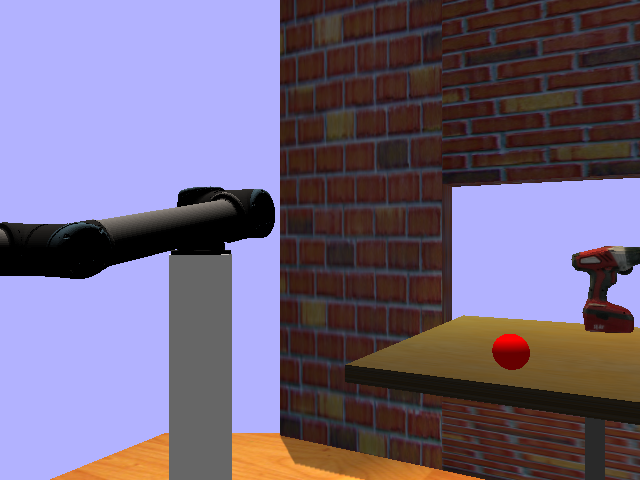
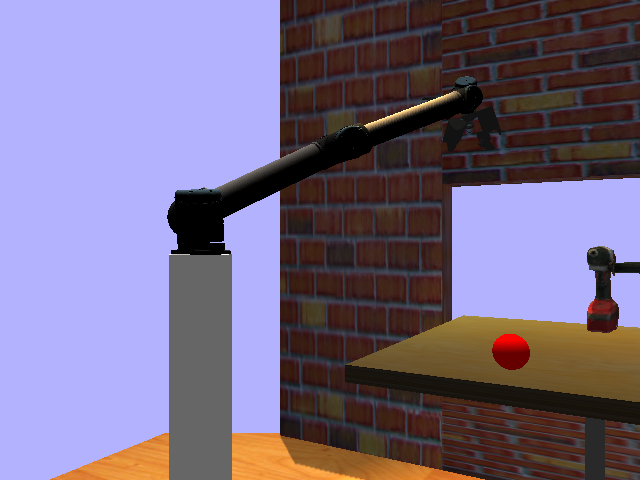
robot arm movement around aboject finished

Changed region(s): [[0.0, 0.1562, 0.7812, 0.5938], [0.875, 0.5, 1.0, 0.7188]]

diff --git a/camera_data/src/dataset_maker.py b/camera_data/src/dataset_maker.py
@@ -13,19 +13,36 @@ from math import pi, cos, sin
 
 bridge = CvBridge()
 
-def move_robot_around_object():
+def move_robot_around_object(pose):
     grasper = SmartGrasper()
     
-    rospy.loginfo("move robot arm around table")
-    time.sleep(1)
+    pose.position.x += 0.3
+    pose.position.y += 0.1
+    pose.position.z += 0
     
-    #rospy.loginfo("move robot to start position")
-    #grasper.move_tip(x=1.218, y=1, z=0.672)
+    x_r = -pi/2.
+    y_r = 0
+    z_r = 0
+    
+    quaternion = quaternion_from_euler(x_r, y_r, z_r)
+    pose.orientation.x = quaternion[0]
+    pose.orientation.y = quaternion[1]
+    pose.orientation.z = quaternion[2]
+    pose.orientation.w = quaternion[3]
+    
+    rospy.loginfo("move robot to start position")
+    grasper.move_tip_absolute(pose)
+    time.sleep(0.1)
+    
     
     rospy.loginfo("move robot around object")
     for _ in range(5):
+        grasper.move_tip(z=0.1)
+        time.sleep(0.1)
+        
+    rospy.loginfo("move robot around object")
+    for _ in range(6):
         grasper.move_tip(x=0.1)
-        grasper.move_tip(y=0.1)
         time.sleep(0.1)
     
 
@@ -84,8 +101,12 @@ def save_camera_info(msg):
         
         
 def save_dataset():
-    
-    move_robot_around_object()
+    # The position of the object should be known before creating the dataset
+    pose = Pose()
+    pose.position.x = 0.15
+    pose.position.y = 0
+    pose.position.z = 0.772
+    move_robot_around_object(pose)
     
     # color image topic
     image_topic_color_img = "/kinect_sim/camera1/rgb/image_raw"

diff --git a/object_grasping/src/object_grasper.py b/object_grasping/src/object_grasper.py
@@ -42,12 +42,6 @@ def move_object_to_location(pose, x, y, z):
         
 def grasp_object(object_pose):
     
-    # object_pose = Pose()
-    
-    # object_pose.position.x = x
-    # object_pose.position.y = y
-    # object_pose.position.z = z
-    
     object_pose.position.z += 0.5
     
     x_r = -pi/2.
@@ -106,8 +100,8 @@ if __name__ == '__main__':
     
     try:
         pose = Pose()
-        pose.position.x = 0.15
-        pose.position.y = 0
+        pose.position.x = -0.472
+        pose.position.y = 0.159
         pose.position.z = 0.772
         grasp_object(pose)
         
